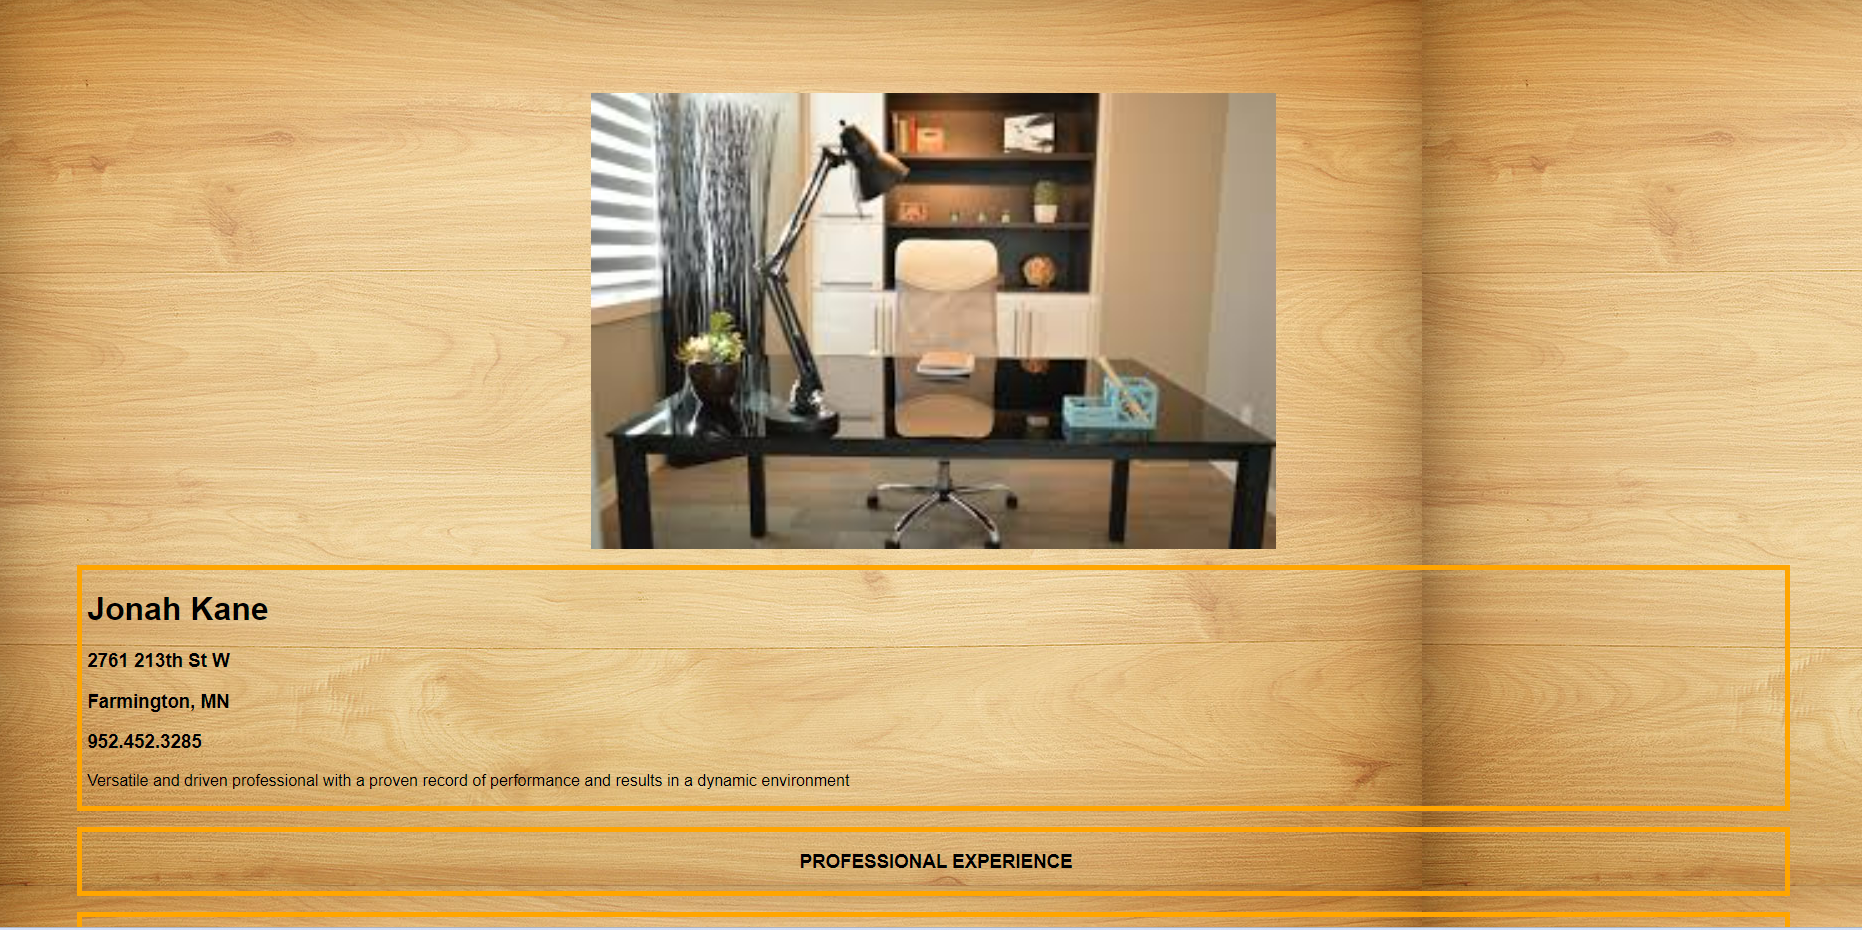
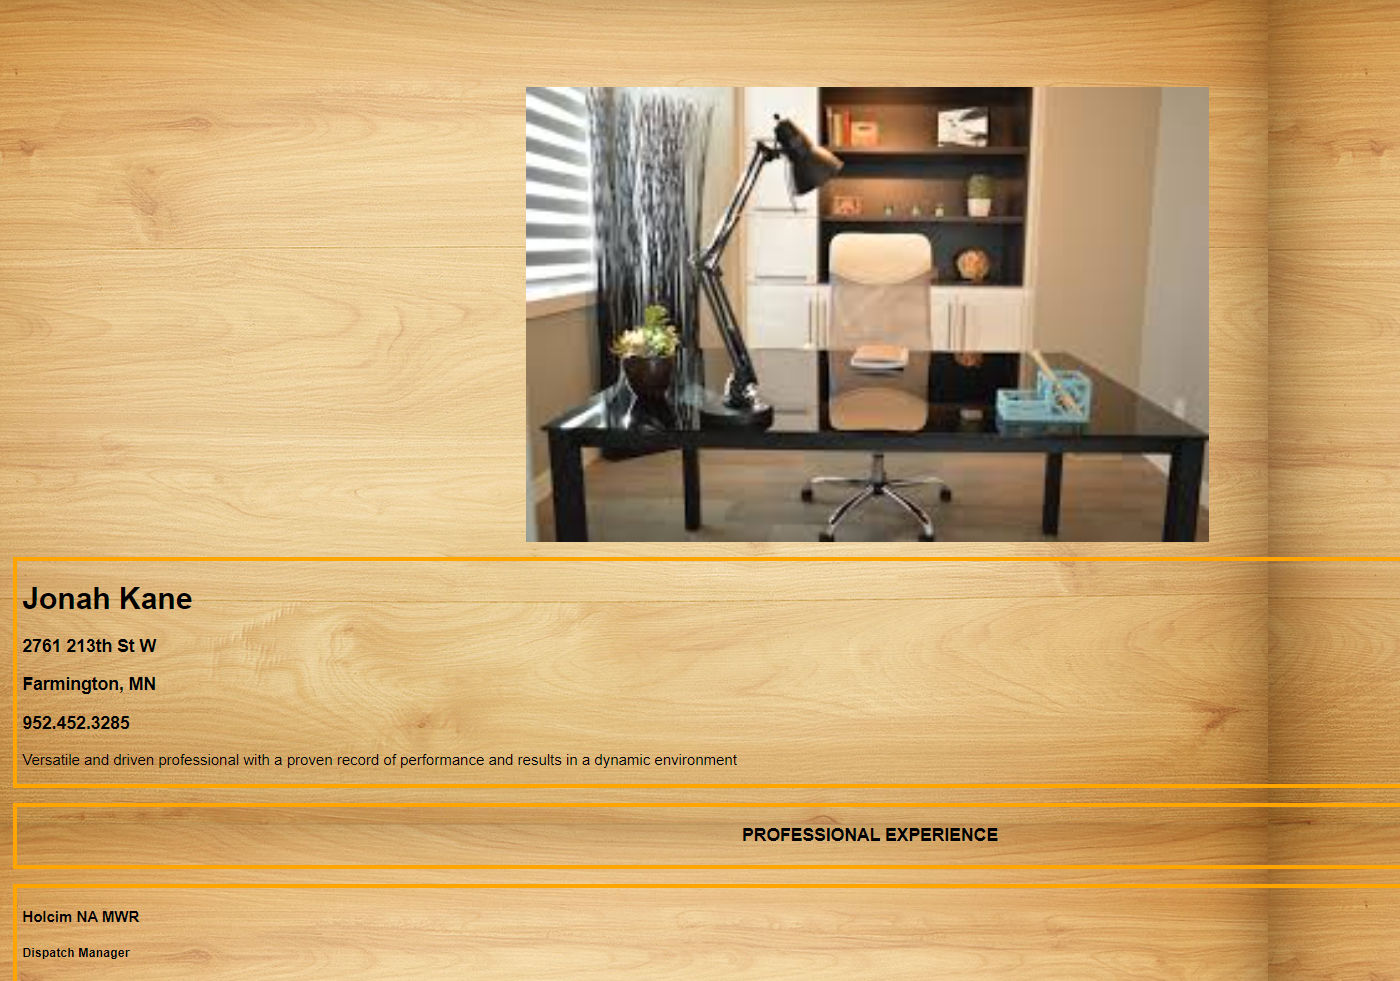
making tweaks to css properties

diff --git a/index.html b/index.html
@@ -84,7 +84,7 @@
                         <h3>My First Project Ever</h3>
                     </div>
                     <p>
-                    <h4>I created this page before I had any formal training.</h4>
+                    <h4>Created prior to any formal training</h4>
                     <a href="https://jonahkane.github.io/">
                         <img src="./assets/images/first.png" alt="screenshot of first ever webpage"></a>
                     <h5>Click on the photo to see the page</h5>
@@ -94,10 +94,10 @@
                 <div class="strongside">
                     <article id="card2" class="cards">
                         <div>
-                            <h3>Prework Study Guide</h3>
+                            <h3>Prework Project</h3>
                         </div>
                         <p>
-                        <h4>This was the first project in my UofM Bootcamp</h4>
+                        <h4>First project in my UofM Bootcamp</h4>
                         <a href="https://jonahkane.github.io/prework-study-guide/">
                             <img src="./assets/images/prework.png" alt="screenshot of prework study guide webpage"></a>
                         <h5>Click on the photo to see the page</h5>
@@ -110,7 +110,7 @@
                             <h3>Horiseon Project</h3>
                         </div>
                         <p>
-                        <h4> First true homework assignment from bootcamp</h4>
+                        <h4> First bootcamp homework assignment</h4>
                         <a href="https://jonahkane.github.io/02-challenge/">
                             <img src="./assets/images/horiseon.png" alt="screenshot of first homework assignment"></a>
                         <h5>Click on the photo to see the page</h5>

diff --git a/assets/css/style.css b/assets/css/style.css
@@ -32,7 +32,7 @@ border: solid 5px lime;
 section {
   display: flex;
   background-color: brown;
-  width: 80%;
+  width: 100%;
   margin: 1rem auto 0 auto;
   padding: 5px;
   border: solid 5px lime;
@@ -46,7 +46,7 @@ body {
 }
 
 p {
-  width: 70%;    
+  width: 100%;    
 }
 
 nav ul {
@@ -82,7 +82,9 @@ img {
   margin: 5px;
   border: 5px solid black;
   border-radius: 10px;
+  justify-items: center;
 }
+
 
 /* setting uniform look for "header" that is displayed on the left side of the page */
 .leftside {
@@ -114,7 +116,6 @@ h1, h2 {
 
 h2 {
   text-align: center;
-
 }
 
 p{
@@ -126,7 +127,8 @@ p{
 }
 
 .mywork .cards {
-  height: 300px
+  height: 300px;
+  width: 300px;
 }
 
 /* adding header to each card of my work section, centered, and 'floating' a bit above for unique layout */
@@ -142,7 +144,7 @@ p{
 }
 /* adding some decoration to the cards of mywork section */
   .cards, .card1 {
-  flex: 0 0 auto;
+  /* flex: 0 0 auto; */
   padding: 5px;
   margin: 20px;
   border: 1px dashed black;
